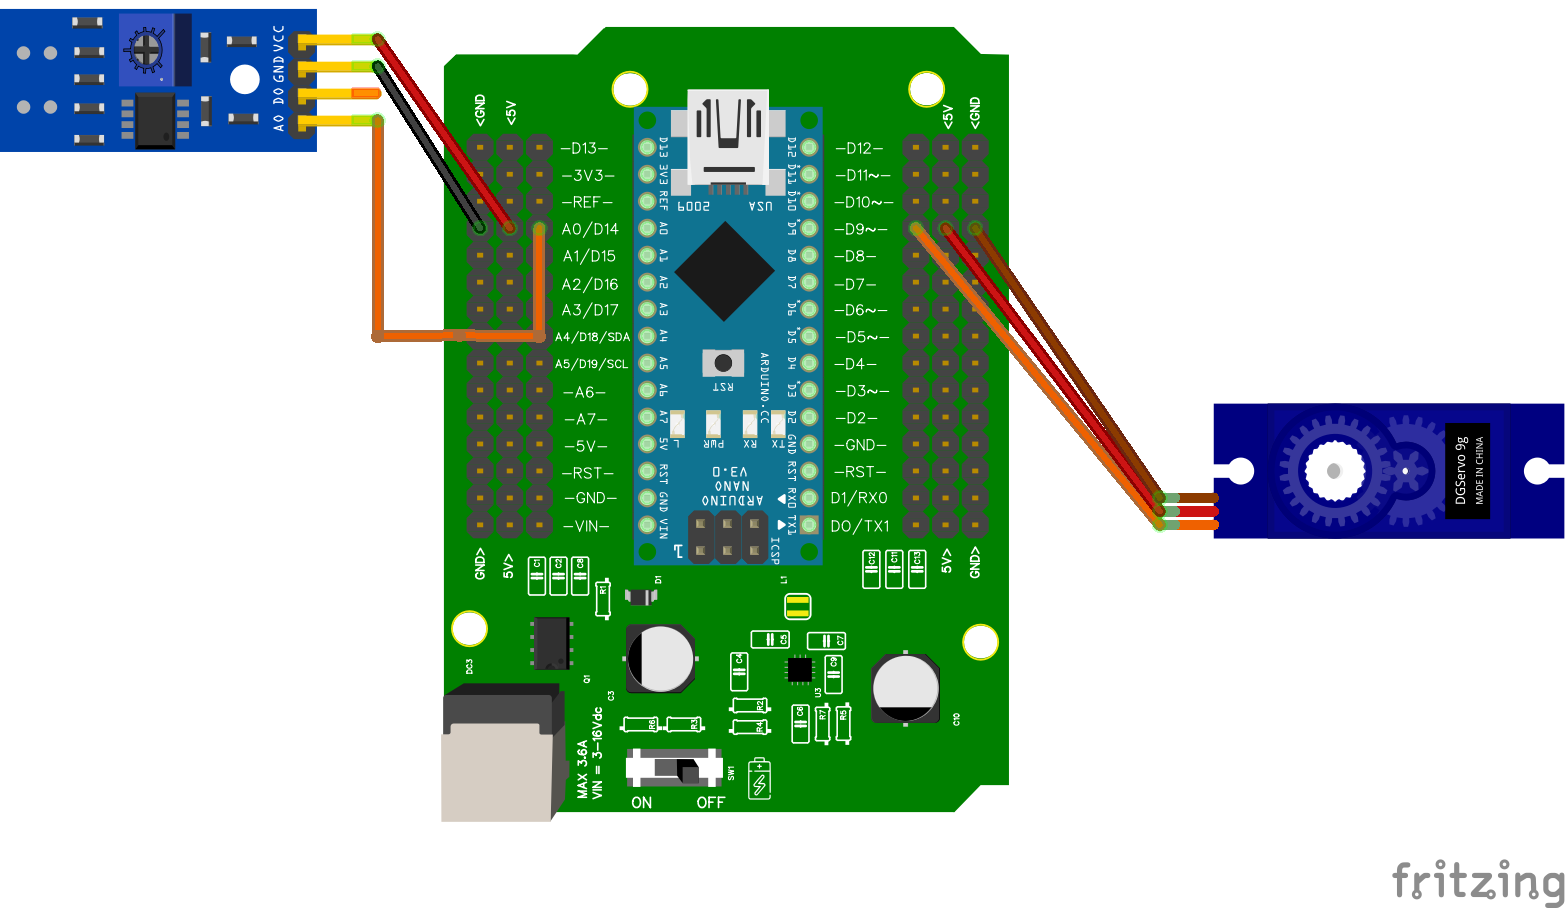
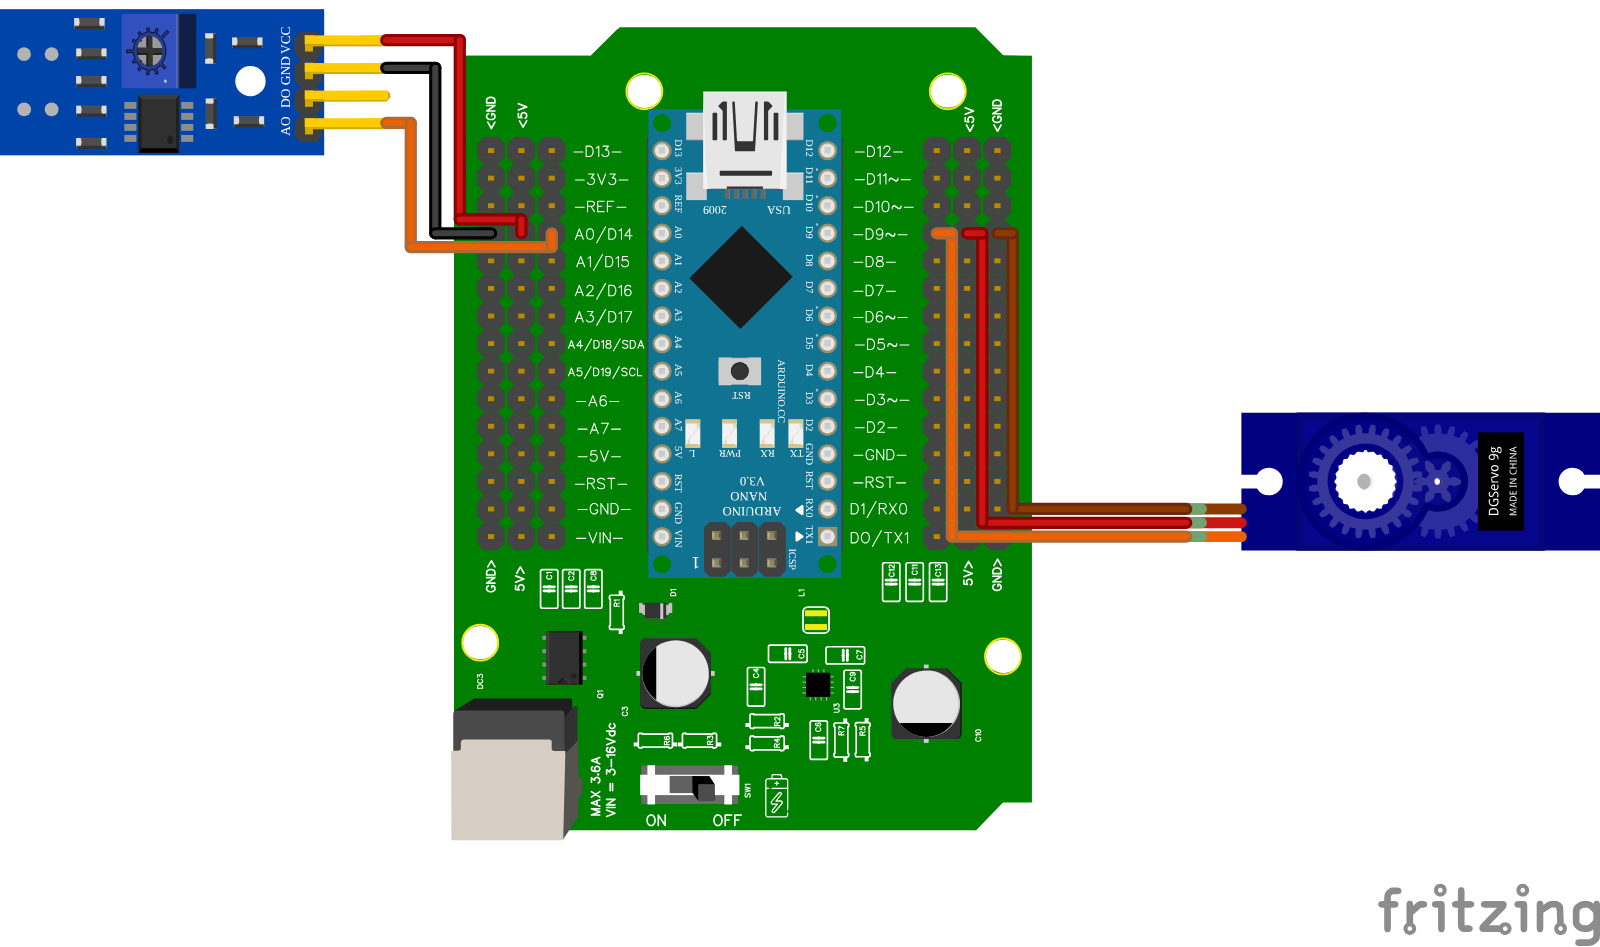
Golfbot: sensor- en servodraden met haakse bochten
De oranje draad van de IR-sensor liep schuin en dan over de rij van A4
omhoog naar A0, met een hoek precies op het signaal van A4; twee pagina's
moesten uitleggen dat de hoekjes geen aansluitingen waren. De servodraden
liepen schuin over de pinnen van D8 tot D3, met de bruine half onder de
rode. In golfbot.fzz lopen ze nu zoals in de schema's van de onderdelen:
de sensordraden door een eigen kanaal naast het shield en door het gat
boven of onder het rijtje van A0 naar hun pin, de servokabel als strip die
in drie banen tussen de kolommen omhoog gaat naar het rijtje van D9. De
zinnen die het plaatje rechtzetten, zijn weg.

Het Golfbot-shield stond voor een export bijna helemaal buiten zijn
<g id="breadboard">: alleen een chip zat erin, dus Fritzing liet de rest
weg. Die laag omvat nu de hele tekening, met de opmaak als attributen.

De test op rechte draden geldt nu voor elke .fzz (behalve de motoren, die
volgen), en de doorlooptest eist dat de tekst geen rij van A4 meer noemt.

Claude-Session: https://claude.ai/code/session_01AmMyeALxEdtqFWgowZCVkR

Changed region(s): [[0.0, 0.0308, 1.0, 0.9251], [0.8582, 0.9251, 1.0, 1.0]]

diff --git a/sites/informatica/robotica/src/lego-tests/schemas.test.ts b/sites/informatica/robotica/src/lego-tests/schemas.test.ts
@@ -325,6 +325,23 @@ describe('elk aansluitschema in een les', () => {
     expect(fout).toEqual([]);
   });
 
+  it('heeft alleen draden die recht omlaag of recht opzij lopen, in elke .fzz', () => {
+    // Op het Golfbot-plaatje liep de oranje draad van de sensor schuin en dan
+    // langs de rij van A4, en de servodraden schuin over de pinnen van D8 tot
+    // D3; de tekst moest uitleggen dat de hoekjes geen aansluitingen waren.
+    const NOG_SCHUIN = new Set(['shield_with_motors.fzz']);
+    const fout: string[] = [];
+    for (const fzz of readdirSync(FRITZING).filter((n) => n.endsWith('.fzz') && !NOG_SCHUIN.has(n))) {
+      const fz = [...unzip(join(FRITZING, fzz))].find(([n]) => n.endsWith('.fz'))?.[1] ?? '';
+      for (const m of fz.matchAll(
+        /<instance moduleIdRef="WireModuleID"[\s\S]*?<breadboardView[^>]*>\s*<geometry [^>]*x2="([-\d.e]+)" y2="([-\d.e]+)"/g,
+      ))
+        if (Math.abs(Number(m[1])) > 0.01 && Math.abs(Number(m[2])) > 0.01)
+          fout.push(`${fzz}: schuine draad (${m[1]}, ${m[2]})`);
+    }
+    expect(fout).toEqual([]);
+  });
+
   it('heeft de draadkleuren die zijn alt-tekst noemt', () => {
     // De alt-tekst van de batterijhouder zei "de rode draad op de plus en de
     // zwarte op de min", terwijl beide draden in het plaatje blauw waren.

diff --git a/sites/informatica/robotica/src/lego-tests/golfbot-doorloop.test.ts b/sites/informatica/robotica/src/lego-tests/golfbot-doorloop.test.ts
@@ -238,12 +238,13 @@ describe('aansluiten', () => {
     expect(tekst('servo')).toMatch(/dichtst bij de naam/);
   });
 
-  it('bij het sensorplaatje staat dat de oranje draad alleen op A0 hoort', () => {
-    // Op het plaatje loopt de draad langs de rij van A4 en dan omhoog; de
-    // hoeken lijken aansluitpunten. Het plaatje zelf passen we niet aan.
-    const inhoud = tekst('ir-sensor');
-    const na = inhoud.slice(inhoud.indexOf('golfbot_sensor.png'));
-    expect(na.slice(0, 400)).toMatch(/rij van A4/);
+  it('de tekst hoeft het plaatje van de sensor niet meer recht te zetten', () => {
+    // Op het oude plaatje liep de oranje draad langs de rij van A4, en twee
+    // pagina's zeiden daarom dat de hoekjes geen aansluitingen waren. Sinds
+    // november 2026 loopt hij door het gat onder het rijtje van A0 naar zijn
+    // pin (golfbot.fzz; schemas.test.ts eist haakse bochten in elke .fzz).
+    expect(tekst('ir-sensor')).not.toMatch(/rij van A4/);
+    expect(tekst('hout')).not.toMatch(/rij van A4/);
   });
 
   it('D0 van de sensor is niet D0 van het shield', () => {

diff --git a/sites/informatica/robotica/golfbot/ir-sensor.md b/sites/informatica/robotica/golfbot/ir-sensor.md
@@ -22,8 +22,6 @@ Zet je robot uit met de knop **ON/OFF**. Sluit de sensor dan aan op de rij van *
 
 ![Uitsnede van het schema: de blauwe sensor linksboven, met de rode draad naar 5V, de zwarte naar GND en de oranje naar het signaal van A0 op het shield. De pin D0 van de sensor blijft leeg.](@site/static/fritzing/golfbot_sensor.png)
 
-Op het plaatje loopt de oranje draad eerst een stukje langs de rij van A4, en gaat dan omhoog naar A0. De hoekjes in de draad zijn geen aansluitingen: hij zit alleen op het signaal van **A0**.
-
 De sensor heeft ook een pin **D0**, maar die laat je leeg. D0 zegt alleen "wel bal" of "geen bal". Op **A0** krijg je een getal, en dan kies je zelf vanaf welk getal er een bal ligt.
 
 Op het shield staat ook een D0, bij **D0/TX1**. Daar sluit je niets op aan, want over D0 en D1 van het shield gaat je programma via de usb-kabel naar de Arduino.

diff --git a/sites/informatica/robotica/golfbot/hout.md b/sites/informatica/robotica/golfbot/hout.md
@@ -66,8 +66,6 @@ Staat de baan in elkaar? Zet je toren dan met de vier hoeken van het Lego-frame 
 
 ![Het hele schema: links de sensor op de rij van A0, rechts de servo op de rij van D9, allebei op het shield met de Arduino Nano in het midden.](@site/static/fritzing/golfbot_bb.png)
 
-Let op: op dit plaatje loopt de oranje draad van de sensor langs de rij van A4. Hij hoort op het signaal van **A0**, zoals bij [de IR-sensor](site:robotica/golfbot/ir-sensor).
-
 ## Ziet de sensor de bal op de baan?
 
 Op tafel hield je de bal zelf voor de sensor. Nu zit de sensor vast, en ligt de bal in de halve ronding. Kijk of je robot hem daar ook ziet.
